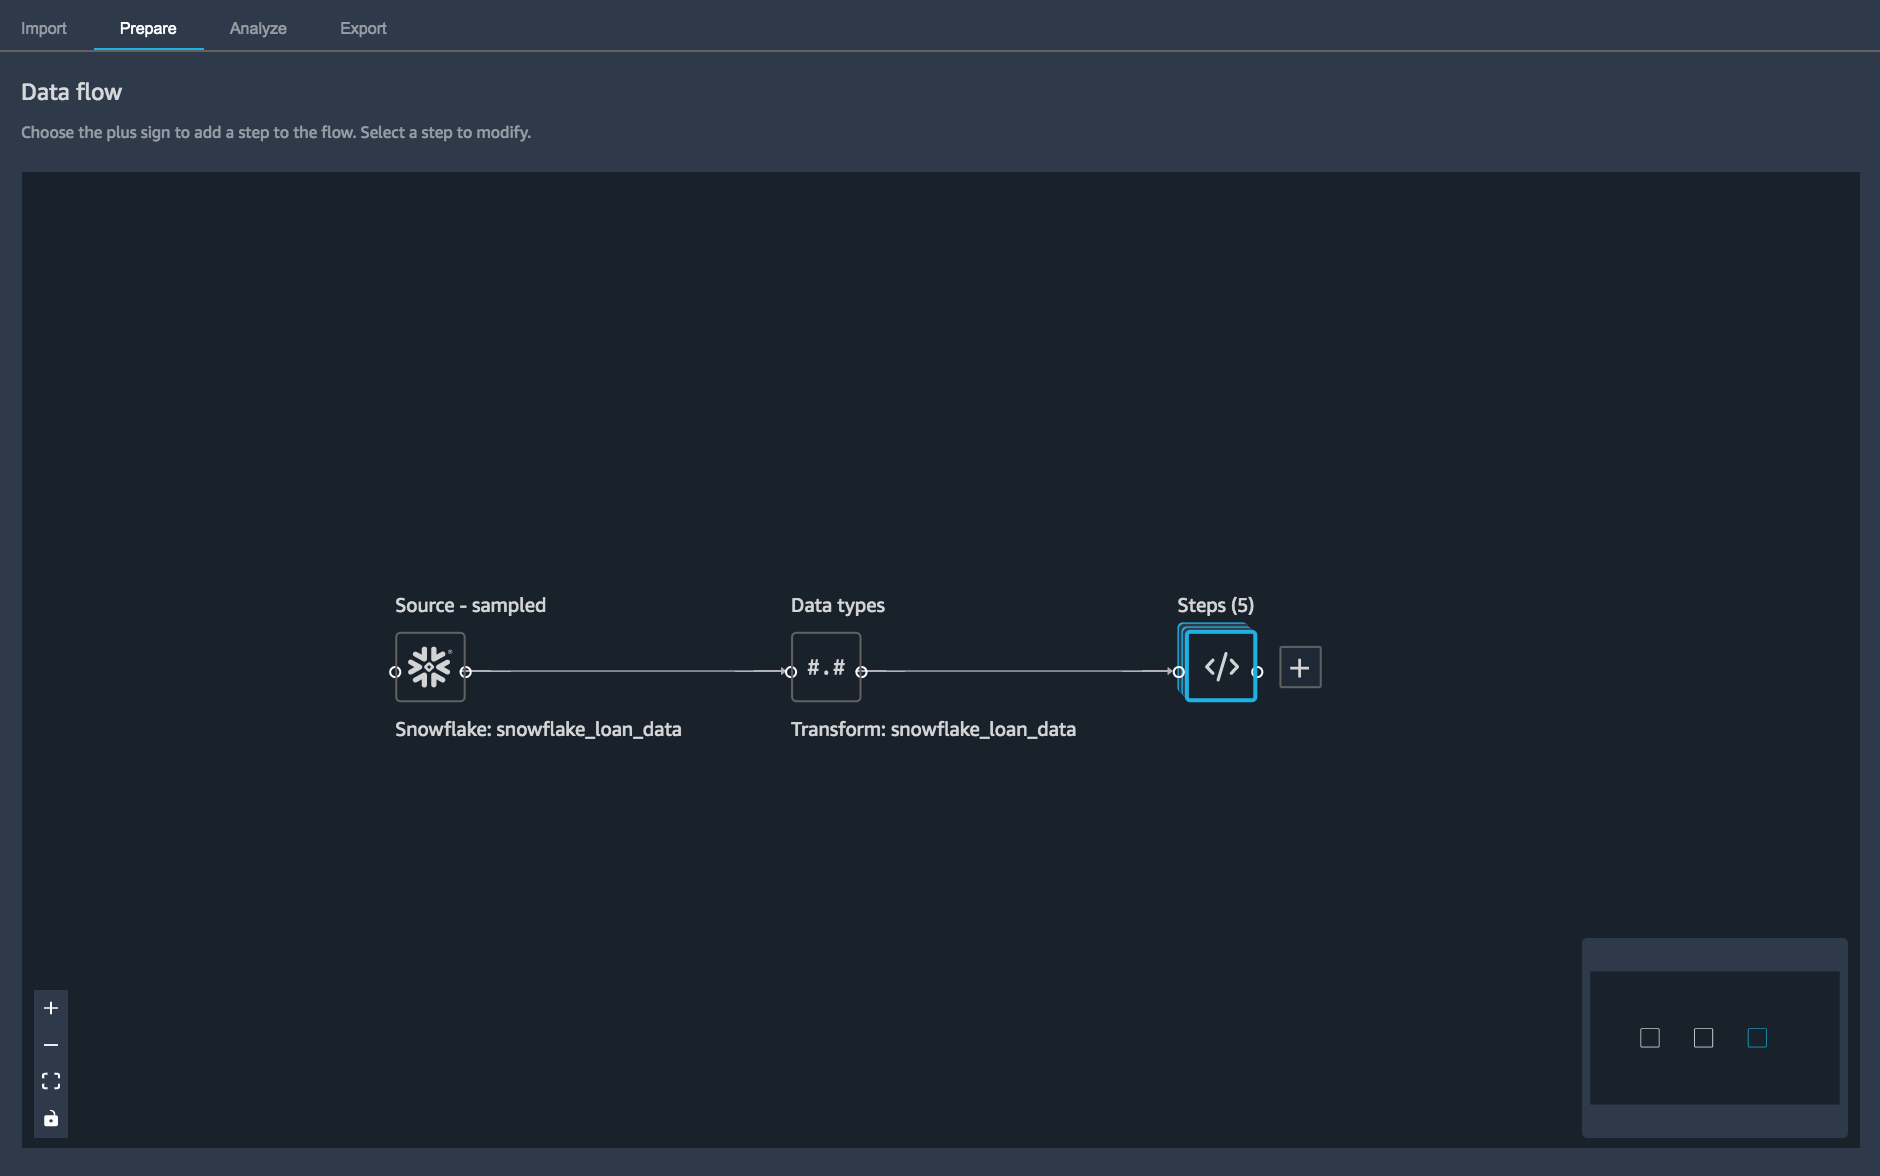
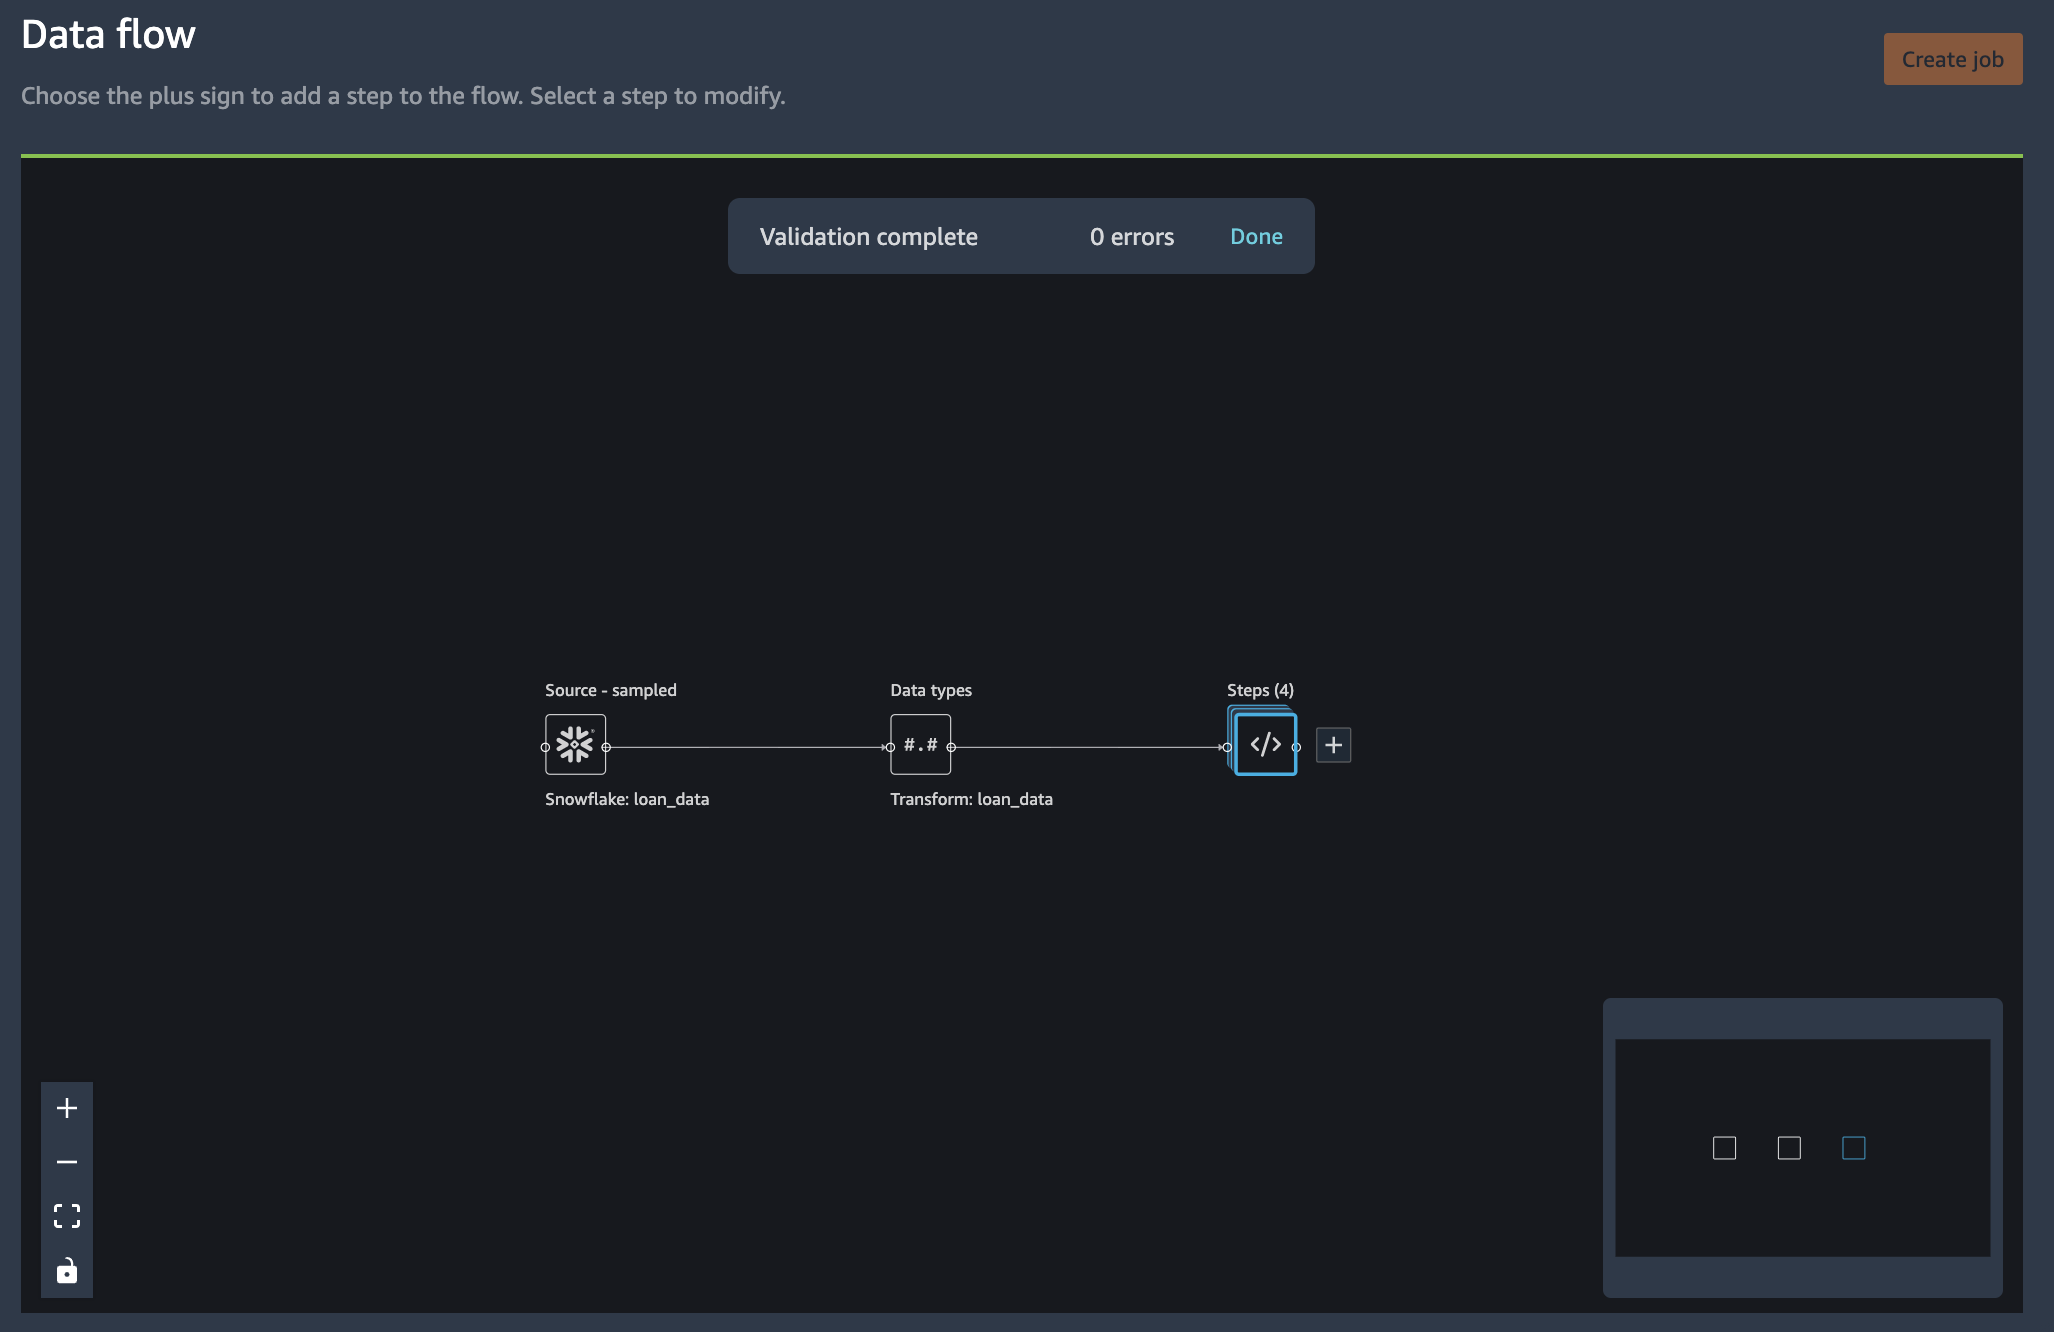
new images and scripts
- new data wrangler screenshots.
- simplified workshop
- marked sections as optional
- removed dependency on marketplace

diff --git a/loan-default/notebooks/scripts/train.py b/loan-default/notebooks/scripts/train.py
@@ -1,0 +1,98 @@
+import argparse
+import os
+from pprint import pprint
+
+import yaml
+from autogluon.tabular import TabularDataset, TabularPredictor
+
+
+def get_input_path(path):
+    file = os.listdir(path)[0]
+    if len(os.listdir(path)) > 1:
+        print(f"WARN: more than one file is found in {channel} directory")
+    print(f"Using {file}")
+    filename = f"{path}/{file}"
+    return filename
+
+
+def get_env_if_present(name):
+    result = None
+    if name in os.environ:
+        result = os.environ[name]
+    return result
+
+
+if __name__ == "__main__":
+    # Disable Autotune
+    os.environ["MXNET_CUDNN_AUTOTUNE_DEFAULT"] = "0"
+
+    # ------------------------------------------------------------ Arguments parsing
+    print("Starting AG")
+    parser = argparse.ArgumentParser()
+
+    # Data, model, and output directories
+    parser.add_argument(
+        "--output-data-dir", type=str, default=get_env_if_present("SM_OUTPUT_DATA_DIR")
+    )
+    parser.add_argument("--model-dir", type=str, default=get_env_if_present("SM_MODEL_DIR"))
+    parser.add_argument("--n_gpus", type=str, default=get_env_if_present("SM_NUM_GPUS"))
+    parser.add_argument("--training_dir", type=str, default=get_env_if_present("SM_CHANNEL_TRAIN"))
+    parser.add_argument(
+        "--test_dir", type=str, required=False, default=get_env_if_present("SM_CHANNEL_TEST")
+    )
+    parser.add_argument("--ag_config", type=str, default=get_env_if_present("SM_CHANNEL_CONFIG"))
+
+    args, _ = parser.parse_known_args()
+
+    print(f"Args: {args}")
+
+    # See SageMaker-specific environment variables: https://sagemaker.readthedocs.io/en/stable/overview.html#prepare-a-training-script
+    os.makedirs(args.output_data_dir, mode=0o777, exist_ok=True)
+
+    config_file = get_input_path(args.ag_config)
+    with open(config_file) as f:
+        config = yaml.safe_load(f)  # AutoGluon-specific config
+
+    if args.n_gpus:
+        config["num_gpus"] = int(args.n_gpus)
+
+    print("Running training job with the config:")
+    pprint(config)
+
+    # ---------------------------------------------------------------- Training
+
+    train_file = get_input_path(args.training_dir)
+    train_data = TabularDataset(train_file)
+
+    ag_predictor_args = config["ag_predictor_args"]
+    ag_predictor_args["path"] = args.model_dir
+    ag_fit_args = config["ag_fit_args"]
+
+    predictor = TabularPredictor(**ag_predictor_args).fit(train_data, **ag_fit_args)
+
+    # --------------------------------------------------------------- Inference
+
+    if args.test_dir:
+        test_file = get_input_path(args.test_dir)
+        test_data = TabularDataset(test_file)
+
+        # Predictions
+        y_pred_proba = predictor.predict_proba(test_data)
+        if config.get("output_prediction_format", "csv") == "parquet":
+            y_pred_proba.to_parquet(f"{args.output_data_dir}/predictions.parquet")
+        else:
+            y_pred_proba.to_csv(f"{args.output_data_dir}/predictions.csv")
+
+        # Leaderboard
+        if config.get("leaderboard", False):
+            lb = predictor.leaderboard(test_data, silent=False)
+            lb.to_csv(f"{args.output_data_dir}/leaderboard.csv")
+
+        # Feature importance
+        if config.get("feature_importance", False):
+            feature_importance = predictor.feature_importance(test_data)
+            feature_importance.to_csv(f"{args.output_data_dir}/feature_importance.csv")
+    else:
+        if config.get("leaderboard", False):
+            lb = predictor.leaderboard(silent=False)
+            lb.to_csv(f"{args.output_data_dir}/leaderboard.csv")

diff --git a/loan-default/notebooks/utils/ag_model.py b/loan-default/notebooks/utils/ag_model.py
@@ -1,0 +1,90 @@
+#!/usr/bin/env python
+from sagemaker.estimator import Framework
+from sagemaker.predictor import Predictor
+from sagemaker.mxnet import MXNetModel
+from sagemaker.mxnet.model import MXNetPredictor
+from sagemaker import utils
+from sagemaker import image_uris
+from sagemaker.serializers import CSVSerializer
+from sagemaker.deserializers import StringDeserializer
+
+
+class AutoGluonTraining(Framework):
+    def __init__(
+        self,
+        entry_point,
+        region,
+        framework_version,
+        py_version,
+        instance_type,
+        source_dir=None,
+        hyperparameters=None,
+        **kwargs,
+    ):
+        self.framework_version = framework_version
+        self.py_version = py_version
+        self.image_uri = image_uris.retrieve(
+            "autogluon",
+            region=region,
+            version=framework_version,
+            py_version=py_version,
+            image_scope="training",
+            instance_type=instance_type,
+        )
+        super().__init__(
+            entry_point,
+            source_dir,
+            hyperparameters,
+            framework_version=framework_version,
+            instance_type=instance_type,
+            image_uri=self.image_uri,
+            **kwargs,
+        )
+
+    def _configure_distribution(self, distributions):
+        return
+
+    def create_model(
+        self,
+        model_server_workers=None,
+        role=None,
+        vpc_config_override=None,
+        entry_point=None,
+        source_dir=None,
+        dependencies=None,
+        image_name=None,
+        **kwargs,
+    ):
+        return None
+
+
+class AutoGluonTabularPredictor(Predictor):
+    def __init__(self, *args, **kwargs):
+        super().__init__(
+            *args, serializer=CSVSerializer(), deserializer=StringDeserializer(), **kwargs
+        )
+
+
+class AutoGluonInferenceModel(MXNetModel):
+    def __init__(
+        self,
+        model_data,
+        role,
+        entry_point,
+        region,
+        framework_version,
+        py_version,
+        instance_type,
+        **kwargs,
+    ):
+        image_uri = image_uris.retrieve(
+            "autogluon",
+            region=region,
+            version=framework_version,
+            py_version=py_version,
+            image_scope="inference",
+            instance_type=instance_type,
+        )
+        super().__init__(
+            model_data, role, entry_point, image_uri=image_uri, framework_version="1.8.0", **kwargs
+        )

diff --git a/loan-default/notebooks/scripts/tabular-serve.py b/loan-default/notebooks/scripts/tabular-serve.py
@@ -1,0 +1,38 @@
+from autogluon.tabular import TabularPredictor
+import os
+import json
+from io import StringIO
+import pandas as pd
+import numpy as np
+
+
+def model_fn(model_dir):
+    """loads model from previously saved artifact"""
+    model = TabularPredictor.load(model_dir)
+    globals()["column_names"] = model.feature_metadata_in.get_features()
+    return model
+
+
+def transform_fn(model, request_body, input_content_type, output_content_type="application/json"):
+
+    if input_content_type == "text/csv":
+        buf = StringIO(request_body)
+        data = pd.read_csv(buf, header=None)
+        num_cols = len(data.columns)
+
+        if num_cols != len(column_names):
+            raise Exception(
+                f"Invalid data format. Input data has {num_cols} while the model expects {len(column_names)}"
+            )
+
+        else:
+            data.columns = column_names
+
+    else:
+        raise Exception(f"{input_content_type} content type not supported")
+
+    pred = model.predict(data)
+    pred_proba = model.predict_proba(data)
+    prediction = pd.concat([pred, pred_proba], axis=1).values
+
+    return json.dumps(prediction.tolist()), output_content_type
